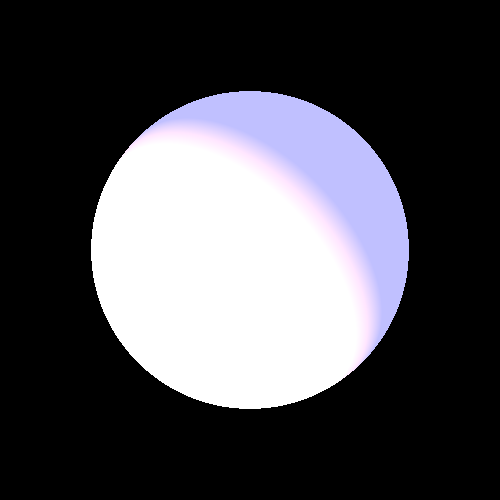
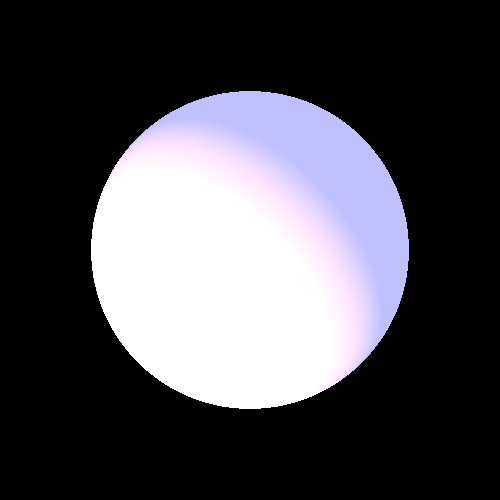
Step 6 - LightTest errors 2

Changed region(s): [[0.27, 0.24, 0.75, 0.75], [0.24, 0.3, 0.27, 0.33]]

diff --git a/src/renderer/RayTracerBasic.java b/src/renderer/RayTracerBasic.java
@@ -56,12 +56,14 @@ public class RayTracerBasic extends RayTracerBase {
     }
 
     private Color calcSpecular(double ks, Vector l, Vector n, Vector v, int nShininess, Color lightIntensity) {
+        l.normalize();
         Vector r = l.substractV(n.scale(alignZero(l.dotProduct(n)*2)));
         double minus_vr=alignZero(v.dotProduct(r)*(-1));
         return lightIntensity.scale(ks*Math.pow(Math.max(0,minus_vr),nShininess));
     }
 
     private Color calcDiffusive(double kd, Vector l, Vector n, Color lightIntensity) {
+        l.normalize();
         return lightIntensity.scale(kd*Math.abs(alignZero(l.dotProduct(n))));
     }
 

diff --git a/src/elements/PointLight.java b/src/elements/PointLight.java
@@ -51,7 +51,7 @@ public class PointLight extends Light implements LightSource{
 
         double d = position.distance(p); //distance
         double tmp = kC+kL*d+kQ*(d*d);
-        return (getIntensity().scale(1/tmp));
+        return (getIntensity().reduce(tmp));
     }
 
     /**
@@ -62,7 +62,7 @@ public class PointLight extends Light implements LightSource{
      */
     @Override
     public Vector getL(Point3D p) {
-        return position.subtract(p);
+        return position.subtract(p).normalize();
     }
 
     /*

diff --git a/src/elements/DirectionalLight.java b/src/elements/DirectionalLight.java
@@ -39,6 +39,6 @@ public class DirectionalLight extends Light implements LightSource{
      */
     @Override
     public Vector getL(Point3D p) {
-        return direction;
+        return direction.normalize();
     }
 }

diff --git a/src/elements/SpotLight.java b/src/elements/SpotLight.java
@@ -38,6 +38,6 @@ public class SpotLight extends PointLight{
      */
     @Override
     public Vector getL(Point3D p) {
-        return direction;
+        return direction.normalize();
     }
 }
